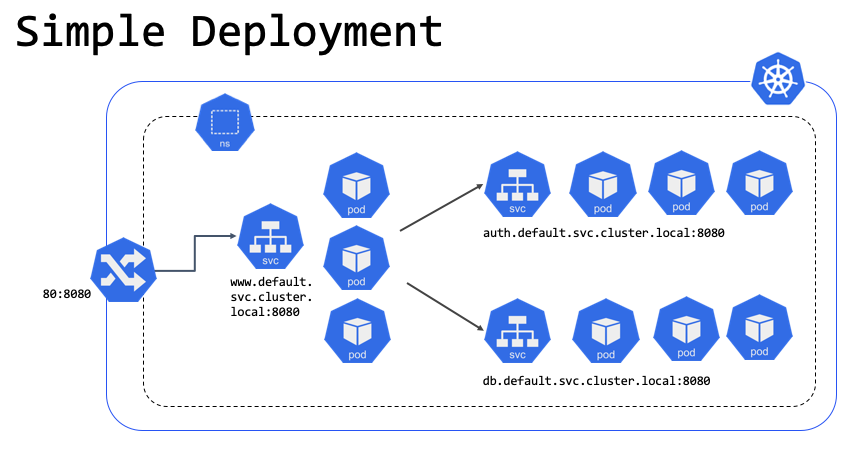
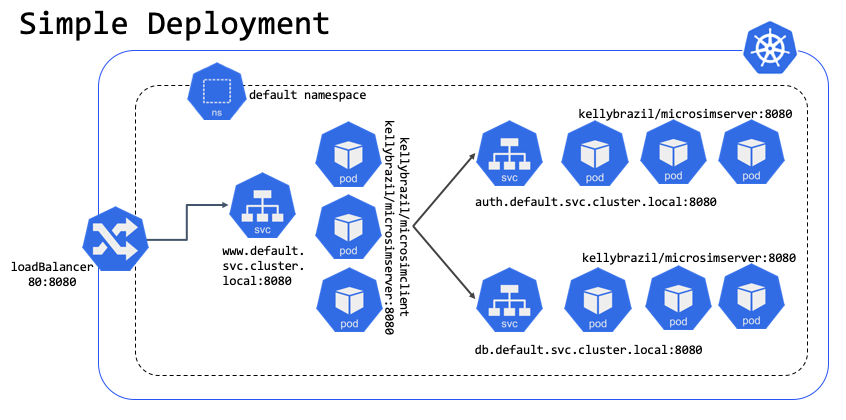
readme updates

diff --git a/README.md b/README.md
@@ -10,29 +10,31 @@ https://hub.docker.com/r/kellybrazil/microsimclient
 
 This application generates traffic between simulated microservices using JSON over HTTP. Many parameters can be set on the client and server apps (`microsimserver` and `microsimclient`) to specify the listening port, the amount of traffic generated, whether requests are sent to the internet, whether certain application attacks are sent, and whether malware is downloaded. You can also set the client and server to kill themselves after a number of seconds.
 
+Sample Kubernetes deployments can be found in the https://github.com/kellyjonbrazil/microsim/tree/master/k8s_deployments folder.
+
 All parameters are set via environment variables. Unset parameters will use the defaults:
 
 `microsimserver`
 
-| Parameter        | Values          | Default  | Description                                     |
-| ---------------- |-----------------| ---------| ------------------------------------------------|
-| LISTEN_PORT      | 1 - 65535       | 8080     | Port the HTTP server listens on                 |
-| RESPOND_BYTES    | 1 - ?           | 16384    | How many data bytes are added to the response   |
-| STOP_SECONDS     | 0 - ?           | 0 (never stop) | Kill the server after x seconds           |
+| Parameter          | Values          | Default          | Description                                     |
+| ------------------ |-----------------| -----------------| ------------------------------------------------|
+| `LISTEN_PORT`      | `1` - `65535`   | `8080`           | Port the HTTP server listens on                 |
+| `RESPOND_BYTES`    | `1` - ?         | `16384`          | How many data bytes are added to the response   |
+| `STOP_SECONDS`     | `0` - ?         | `0` (never stop) | Kill the server after x seconds           |
 
 `microsimclient`
 
-| Parameter        | Values          | Default  | Description                                     |
-| ---------------- |-----------------| ---------| ------------------------------------------------|
-| REQUEST_URLS     | "http:/www.example.com,http://www.server.com" | None      | One or more comma separated URLs to send requests to. *Note: this is a required parameter* |
-| REQUEST_INTERNET | True/False      | False    | Send regular requests to the internet if True   |
-| REQUEST_MALWARE  | True/False      | False    | Occasionally download an eicar sample from the internet |
-| SEND_SQLI        | True/False      | False    | Occasionally send SQLi to the REQUEST_URLS |
-| SEND_XSS         | True/False      | False    | Occasionally send XSS to the REQUEST_URLS |
-| SEND_DIR_TRAVERSAL | True/False    | False   | Occasionally send Directory Traversal to the REQUEST_URLS |
-| SEND_DGA         | True/False      | False    | Occasionally send DGA DNS requests to the resolver |
-| REQUEST_WAIT_SECONDS | 1 - ?     | 3    | Number of seconds to wait between request loop runs |
-| REQUEST_BYTES    | 1 - 7980      | 1024       | How many data bytes are added to the request |
+| Parameter             | Values          | Default  | Description                                     |
+| --------------------- |-----------------| ---------| ------------------------------------------------|
+| `REQUEST_URLS`          | `"http://auth.default.svc.cluster.local:8080,http://db.default.svc.cluster.local:8080"` | None      | One or more comma separated URLs to send requests to. *Note: this is a required parameter* |
+| `REQUEST_INTERNET`      | `True`/`False`      | `False`    | Send regular requests to the internet if True             |
+| `REQUEST_MALWARE`       | `True`/`False`      | `False`    | Occasionally download an eicar sample from the internet   |
+| `SEND_SQLI`             | `True`/`False`      | `False`    | Occasionally send SQLi to the REQUEST_URLS                |
+| `SEND_XSS`              | `True`/`False`      | `False`    | Occasionally send XSS to the REQUEST_URLS                 |
+| `SEND_DIR_TRAVERSAL`    | `True`/`False`      | `False`    | Occasionally send Directory Traversal to the REQUEST_URLS |
+| `SEND_DGA`              | `True`/`False`      | `False`    | Occasionally send DGA DNS requests to the resolver        |
+| `REQUEST_WAIT_SECONDS`  | `1` - ?             | `3`        | Number of seconds to wait between request loop runs       |
+| `REQUEST_BYTES`         | `1` - `7980`        | `1024`     | How many data bytes are added to the request              |
 
 Example docker commands:
 ```

diff --git a/k8s_deployments/README.md b/k8s_deployments/README.md
@@ -1,6 +1,6 @@
 # Kubernetes Deployments
 
-These deployments have been tested on Google Kubernetes Engine (GKE). Simply copy/paste the YAML file into your Google Console via `vim` and run the following to run the deployment:
+These deployments have been tested on Google Kubernetes Engine (GKE). Simply copy/paste the YAML file into your Google Console with `vi` and run the following to run the deployment:
 
 ```
 kubectl create -f deployment.yaml
